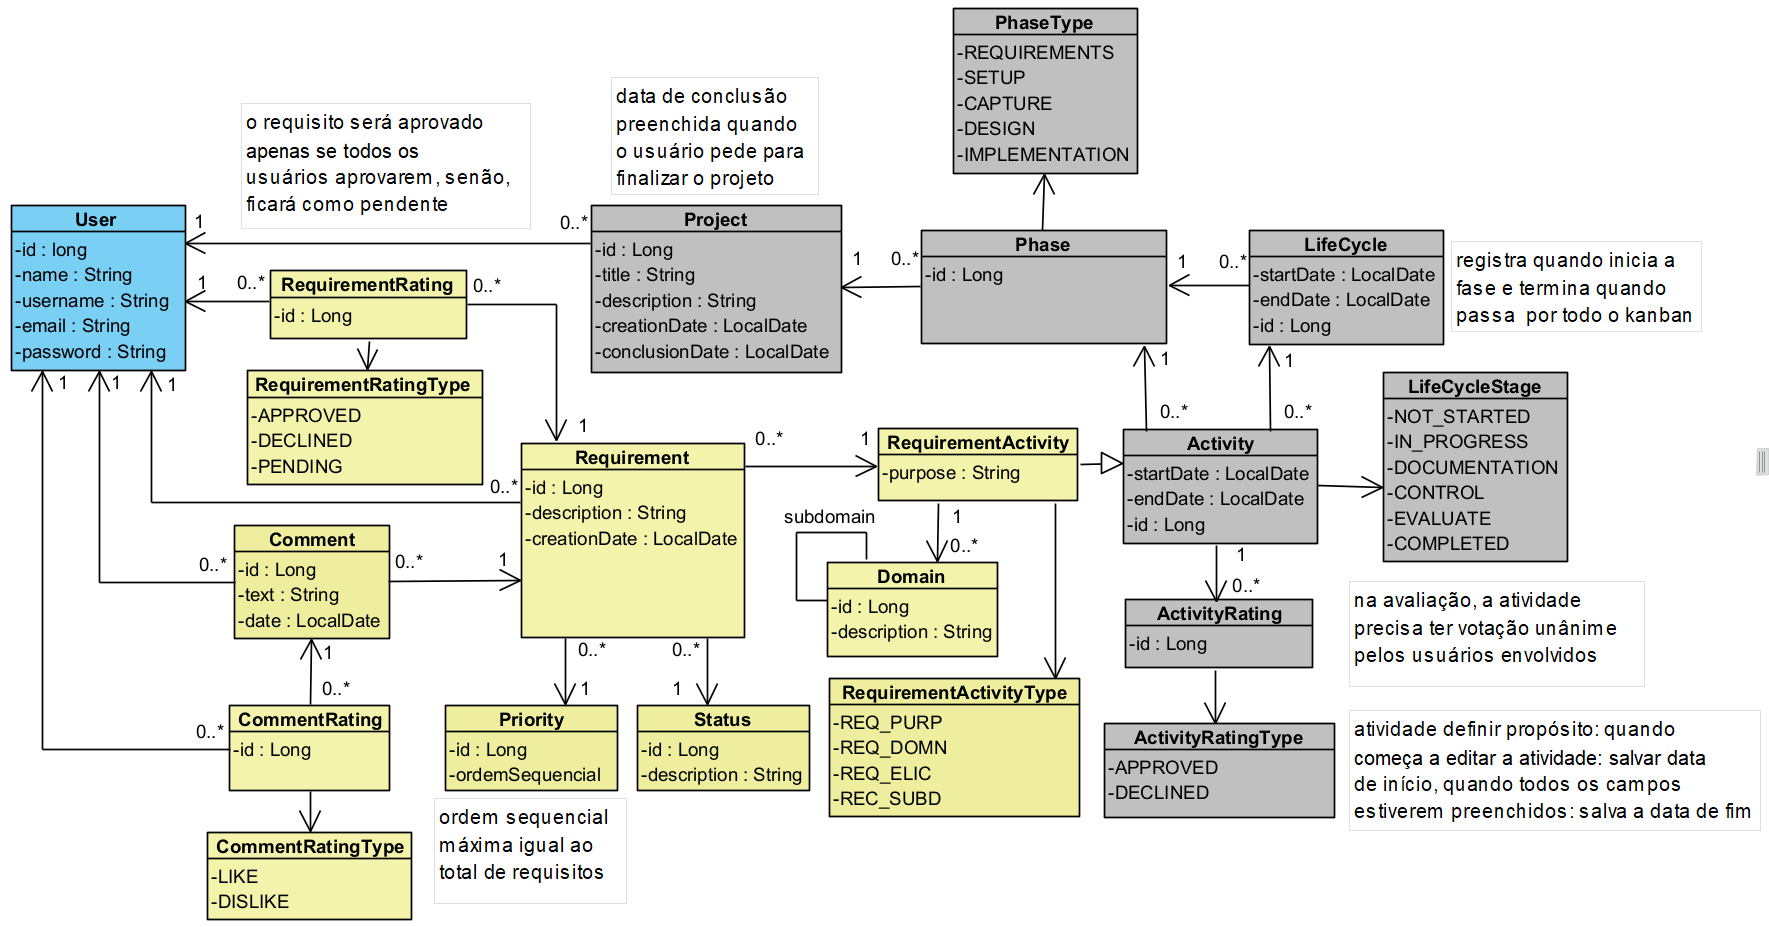
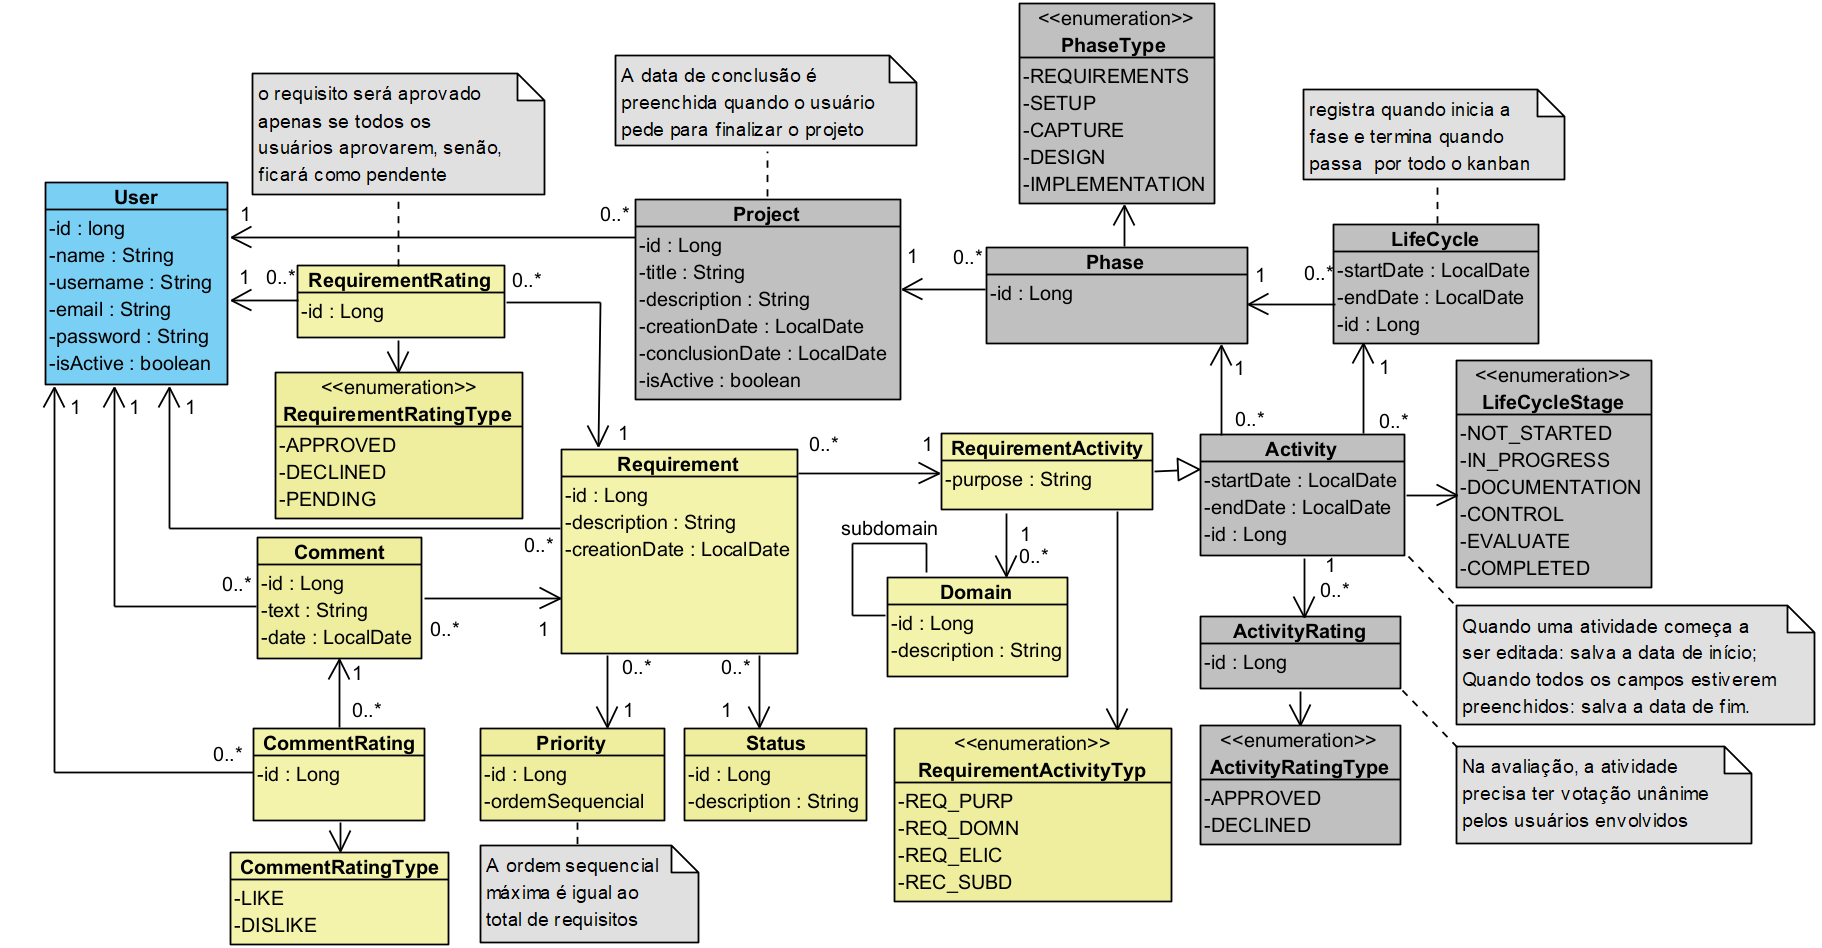
Projects and Users cannot be deleted

diff --git a/back-sabiox_tool/src/main/java/br/com/sabiox/sabiox_tool/services/ProjectService.java b/back-sabiox_tool/src/main/java/br/com/sabiox/sabiox_tool/services/ProjectService.java
@@ -29,8 +29,13 @@ public class ProjectService {
     public ProjectResponseDTO create(ProjectRequestDTO projectRequestDTO) {
         User user = userRepository.findById(projectRequestDTO.userId())
             .orElseThrow(() -> new ResponseStatusException(HttpStatus.NOT_FOUND, "User not found."));
-            
+        
+        if (user.isActive() == false) {
+            throw new ResponseStatusException(HttpStatus.BAD_REQUEST, "User is not active.");
+        }
+        
         Project project = new Project();
+        project.setActive(true);
         
         project.setUser(user);
         BeanUtils.copyProperties(projectRequestDTO, project);
@@ -50,6 +55,14 @@ public class ProjectService {
         List<Project> projects = projectRepository.findAll();
         return ProjectMapper.toDtoList(projects);
     }
+    
+    public List<ProjectResponseDTO> readAllAtivos() {
+        List<Project> projects = projectRepository.findAll()
+                .stream().filter(Project::isActive)
+                .toList();
+
+        return ProjectMapper.toDtoList(projects);
+    }
 
     public ProjectResponseDTO update(Long id, ProjectRequestDTO projectRequestDTO) {
         Project project = projectRepository.findById(id)
@@ -63,7 +76,10 @@ public class ProjectService {
     public void delete(Long id) {
         Project project = projectRepository.findById(id)
             .orElseThrow(() -> new ResponseStatusException(HttpStatus.NOT_FOUND, "Project not found."));
+        
+        project.setActive(false);
+        projectRepository.save(project);
 
-        projectRepository.delete(project);
+        // projectRepository.delete(project);
     }
 }

diff --git a/back-sabiox_tool/src/main/java/br/com/sabiox/sabiox_tool/services/UserService.java b/back-sabiox_tool/src/main/java/br/com/sabiox/sabiox_tool/services/UserService.java
@@ -24,6 +24,7 @@ public class UserService {
 
     public UserResponseDTO create(UserRequestDTO userRequestDTO) { 
         User user = new User();
+        user.setActive(true);
 
         BeanUtils.copyProperties(userRequestDTO, user);
         User userSaved = userRepository.save(user);
@@ -43,6 +44,14 @@ public class UserService {
         return UserMapper.toDtoList(users);
     }
 
+    public List<UserResponseDTO> readAllAtivos() {
+        List<User> users = userRepository.findAll()
+                .stream().filter(User::isActive)
+                .toList();
+
+        return UserMapper.toDtoList(users);
+    }
+
     public UserResponseDTO update(Long id, UserRequestDTO userRequestDTO) {
         User user = userRepository.findById(id)
             .orElseThrow(() -> new ResponseStatusException(HttpStatus.NOT_FOUND, "User not found."));
@@ -56,6 +65,9 @@ public class UserService {
         User user = userRepository.findById(id)
             .orElseThrow(() -> new ResponseStatusException(HttpStatus.NOT_FOUND, "User not found."));
 
-        userRepository.delete(user);
+        user.setActive(false);
+        userRepository.save(user);
+        
+        // userRepository.delete(user);
     }
 }

diff --git a/back-sabiox_tool/src/main/java/br/com/sabiox/sabiox_tool/model/Project.java b/back-sabiox_tool/src/main/java/br/com/sabiox/sabiox_tool/model/Project.java
@@ -23,15 +23,16 @@ public class Project {
 
     private String title;
     private String description;
-
+    private Boolean isActive;
+   
     @ManyToOne
     @JoinColumn(name = "user_id", nullable = false)
     private User user;
-
+    
     @CreationTimestamp
     @Column(name = "creation_date", nullable = false, updatable = false)
     private LocalDate creationDate;
-
+    
     public Long getId() { return id; }
     public void setId(Long id) { this.id = id; }
     
@@ -43,6 +44,9 @@ public class Project {
     
     public User getUser() { return user; }
     public void setUser(User user) { this.user = user; }
-
+    
+    public Boolean isActive() {return isActive;}
+    public void setActive(Boolean isActive) {this.isActive = isActive;}
+ 
     public LocalDate getCreationDate() {return creationDate;}
 }

diff --git a/back-sabiox_tool/src/main/java/br/com/sabiox/sabiox_tool/model/User.java b/back-sabiox_tool/src/main/java/br/com/sabiox/sabiox_tool/model/User.java
@@ -31,6 +31,9 @@ public class User {
     @Column(nullable = false)
     private String password;
 
+    @Column(nullable = false)
+    private Boolean isActive;
+
     @CreationTimestamp
     @Column(name = "creation_date", nullable = false, updatable = false)
     private LocalDate creationDate;
@@ -48,6 +51,9 @@ public class User {
 
     public String getPassword() {return password;}
     public void setPassword(String password) {this.password = password;}
+
+    public Boolean isActive() {return isActive;}
+    public void setActive(Boolean isActive) {this.isActive = isActive;}
 
     public LocalDate getCreationDate() {return creationDate;}
 }

diff --git a/back-sabiox_tool/src/main/java/br/com/sabiox/sabiox_tool/controller/ProjectController.java b/back-sabiox_tool/src/main/java/br/com/sabiox/sabiox_tool/controller/ProjectController.java
@@ -36,6 +36,11 @@ public class ProjectController {
         return ResponseEntity.ok(projectService.readAll());
     }
 
+    @GetMapping("/active")
+    public ResponseEntity<List<ProjectResponseDTO>> readAllActiveProjects() {
+        return ResponseEntity.ok(projectService.readAllAtivos());
+    }
+
     @PutMapping("/{id}")
     public ResponseEntity<ProjectResponseDTO> updateProject(@PathVariable Long id, @Valid @RequestBody ProjectRequestDTO projectRequestDTO) {
         return ResponseEntity.ok(projectService.update(id, projectRequestDTO));

diff --git a/back-sabiox_tool/src/main/java/br/com/sabiox/sabiox_tool/controller/UserController.java b/back-sabiox_tool/src/main/java/br/com/sabiox/sabiox_tool/controller/UserController.java
@@ -36,6 +36,11 @@ public class UserController {
         return ResponseEntity.ok(userService.readAll());
     }
 
+    @GetMapping("/active")
+    public ResponseEntity<List<UserResponseDTO>> readAllActiveUsers() {
+        return ResponseEntity.ok(userService.readAllAtivos());
+    }
+
     @PutMapping("/{id}")
     public ResponseEntity<UserResponseDTO> updateUser(@PathVariable Long id, @Valid @RequestBody UserRequestDTO userRequestDTO) {
         return ResponseEntity.ok(userService.update(id, userRequestDTO));

diff --git a/back-sabiox_tool/src/main/java/br/com/sabiox/sabiox_tool/services/phases/PhaseService.java b/back-sabiox_tool/src/main/java/br/com/sabiox/sabiox_tool/services/phases/PhaseService.java
@@ -30,6 +30,10 @@ public class PhaseService {
         Project project = projectRepository.findById(phaseRequestDTO.projectId())
             .orElseThrow(() -> new ResponseStatusException(HttpStatus.NOT_FOUND, "Project not found."));
             
+        if (project.isActive() == false) {
+            throw new ResponseStatusException(HttpStatus.BAD_REQUEST, "Project is not active.");
+        }
+        
         Phase phase = new Phase();
         
         phase.setProject(project);

diff --git a/back-sabiox_tool/src/main/java/br/com/sabiox/sabiox_tool/util/dtos/response/ProjectResponseDTO.java b/back-sabiox_tool/src/main/java/br/com/sabiox/sabiox_tool/util/dtos/response/ProjectResponseDTO.java
@@ -6,5 +6,6 @@ public record ProjectResponseDTO(Long projectId,
                                  Long userId,
                                  String title,
                                  String description,
-                                 LocalDate creationDate) 
+                                 LocalDate creationDate,
+                                 Boolean isActive)
 {}

diff --git a/back-sabiox_tool/src/main/java/br/com/sabiox/sabiox_tool/util/dtos/response/UserResponseDTO.java b/back-sabiox_tool/src/main/java/br/com/sabiox/sabiox_tool/util/dtos/response/UserResponseDTO.java
@@ -7,5 +7,6 @@ public record UserResponseDTO(Long userId,
                               String username,
                               String email,
                               String password,
-                              LocalDate creationDate)
+                              LocalDate creationDate,
+                              Boolean isActive)
 {}

diff --git a/back-sabiox_tool/src/main/java/br/com/sabiox/sabiox_tool/util/mappers/ProjectMapper.java b/back-sabiox_tool/src/main/java/br/com/sabiox/sabiox_tool/util/mappers/ProjectMapper.java
@@ -14,7 +14,8 @@ public class ProjectMapper {
                 project.getUser().getId(),
                 project.getTitle(),
                 project.getDescription(),
-                project.getCreationDate()
+                project.getCreationDate(),
+                project.isActive()
         );
     }
 

diff --git a/back-sabiox_tool/src/main/java/br/com/sabiox/sabiox_tool/util/mappers/UserMapper.java b/back-sabiox_tool/src/main/java/br/com/sabiox/sabiox_tool/util/mappers/UserMapper.java
@@ -15,7 +15,8 @@ public class UserMapper {
                 user.getUsername(),
                 user.getEmail(),
                 user.getPassword(),
-                user.getCreationDate()
+                user.getCreationDate(),
+                user.isActive()
         );
     }
 
